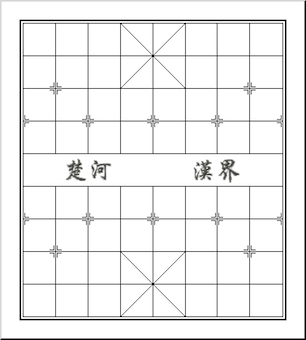
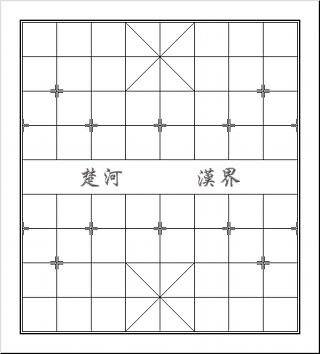
Tune up the Boards ' attributes.

diff --git a/Classes/CChessGame.m b/Classes/CChessGame.m
@@ -63,9 +63,10 @@
     {
         _board = [board retain];
         
-        CGFloat    cellSize = 33;
+        CGFloat    cellSize = 34;
         CGPoint    cellOffset = CGPointMake(2, 3);
-        CGPoint    boardOffset = CGPointMake(5, 32);
+        CGPoint    boardPosition = CGPointMake(0, 28);
+        CGRect     boardFrame = CGRectMake(0, 0, 320, 352);
         CGColorRef backgroundColor = nil;
         CGColorRef highlightColor  = kLightBlueColor;
         CGColorRef animateColor    = kLightBlueColor;
@@ -75,25 +76,26 @@
             case 1:  // SKELETON background.
             {
                 backgroundColor = GetCGPatternNamed(@"SKELETON.png");
+                cellSize = 34.84;
+                cellOffset = CGPointMake(2.7, 1.5);
                 break;
             }
             case 2:  // HOXChess background.
             {
                 backgroundColor = GetCGPatternNamed(@"HOXChess.png");
-                cellSize = 34;
                 cellOffset = CGPointMake(7, 1);
-                boardOffset = CGPointMake(2, 28);
                 break;
             }
             case 3:  // WOOD background.
             {
                 backgroundColor = GetCGPatternNamed(@"WOOD.png");
+                cellSize = 34.84;
+                cellOffset = CGPointMake(2.7, 1.5);
                 break;
             }
             default: // The custom-drawn background.
             {
                 _board.backgroundColor = GetCGPatternNamed(@"board_320x480.png");
-                cellSize = 34;
                 highlightColor  = kHighlightColor;
                 animateColor    = kHighlightColor;
                 break;
@@ -101,10 +103,10 @@
         }
         
         CGSize spacing = CGSizeMake(cellSize, cellSize);
-        CGPoint pos = CGPointMake(board.bounds.origin.x + boardOffset.x,
-                                  board.bounds.origin.y + boardOffset.y);
         _grid = [[Grid alloc] initWithRows:10 columns:9
-                                   spacing:spacing position:pos
+                             boardPosition:boardPosition
+                                boardFrame:boardFrame
+                                   spacing:spacing
                                 cellOffset:cellOffset
                            backgroundColor:backgroundColor];
         _grid.highlightColor = highlightColor;

diff --git a/Classes/Grid.m b/Classes/Grid.m
@@ -61,7 +61,9 @@ BOOL layerIsGridCell( CALayer* layer ) { return [layer isKindOfClass: [GridCell 
 @synthesize rows=_nRows, columns=_nColumns, spacing=_spacing;
 
 - (id) initWithRows:(unsigned)nRows columns:(unsigned)nColumns
-            spacing:(CGSize)spacing position:(CGPoint)pos
+      boardPosition:(CGPoint)boardPosition
+         boardFrame:(CGRect)boardFrame
+            spacing:(CGSize)spacing
          cellOffset:(CGPoint)cellOffset
     backgroundColor:(CGColorRef)backgroundColor
 {
@@ -77,8 +79,8 @@ BOOL layerIsGridCell( CALayer* layer ) { return [layer isKindOfClass: [GridCell 
         if (backgroundColor) {
             self.backgroundColor = CGColorRetain(backgroundColor);
         }
-        self.bounds = CGRectMake(-1, -1, nColumns*_spacing.width+10, nRows*_spacing.height+11);
-        self.position = pos;
+        self.bounds = boardFrame;
+        self.position = boardPosition;
         self.anchorPoint = CGPointMake(0,0);
         self.zPosition = kBoardZ;
         self.needsDisplayOnBoundsChange = YES;

diff --git a/Classes/Grid.h b/Classes/Grid.h
@@ -75,7 +75,9 @@ BOOL layerIsGridCell( CALayer* layer );
 /** Initializes a new Grid with the given dimensions and cell size, and position in superview.
     Note that a new Grid has no cells! Either call -addAllCells, or -addCellAtRow:column:. */
 - (id) initWithRows:(unsigned)nRows columns:(unsigned)nColumns
-            spacing:(CGSize)spacing position:(CGPoint)pos
+      boardPosition:(CGPoint)boardPosition
+         boardFrame:(CGRect)boardFrame
+            spacing:(CGSize)spacing
          cellOffset:(CGPoint)cellOffset
     backgroundColor:(CGColorRef)backgroundColor;
 

diff --git a/Classes/OptionsViewController.m b/Classes/OptionsViewController.m
@@ -39,7 +39,7 @@ enum ViewTagEnum
 
     // --- Piece Type.
     _pieceChoices = [[NSArray alloc] initWithObjects:
-                                        NSLocalizedString(@"Chinese", @""),
+                                        NSLocalizedString(@"Default", @""),
                                         NSLocalizedString(@"Western", @""),
                                         @"HOXChess",
                                         @"iXiangQi",

diff --git a/Classes/Piece.m b/Classes/Piece.m
@@ -233,7 +233,7 @@
     }
 }
 
-- (void) movePieceTo:(CGPoint)newPosition animated:(BOOL)animated;
+- (void) movePieceTo:(CGPoint)newPosition animated:(BOOL)animated
 {
     if (animated) {
         _animated = YES; // ... to be continued with "bounds" animation!
